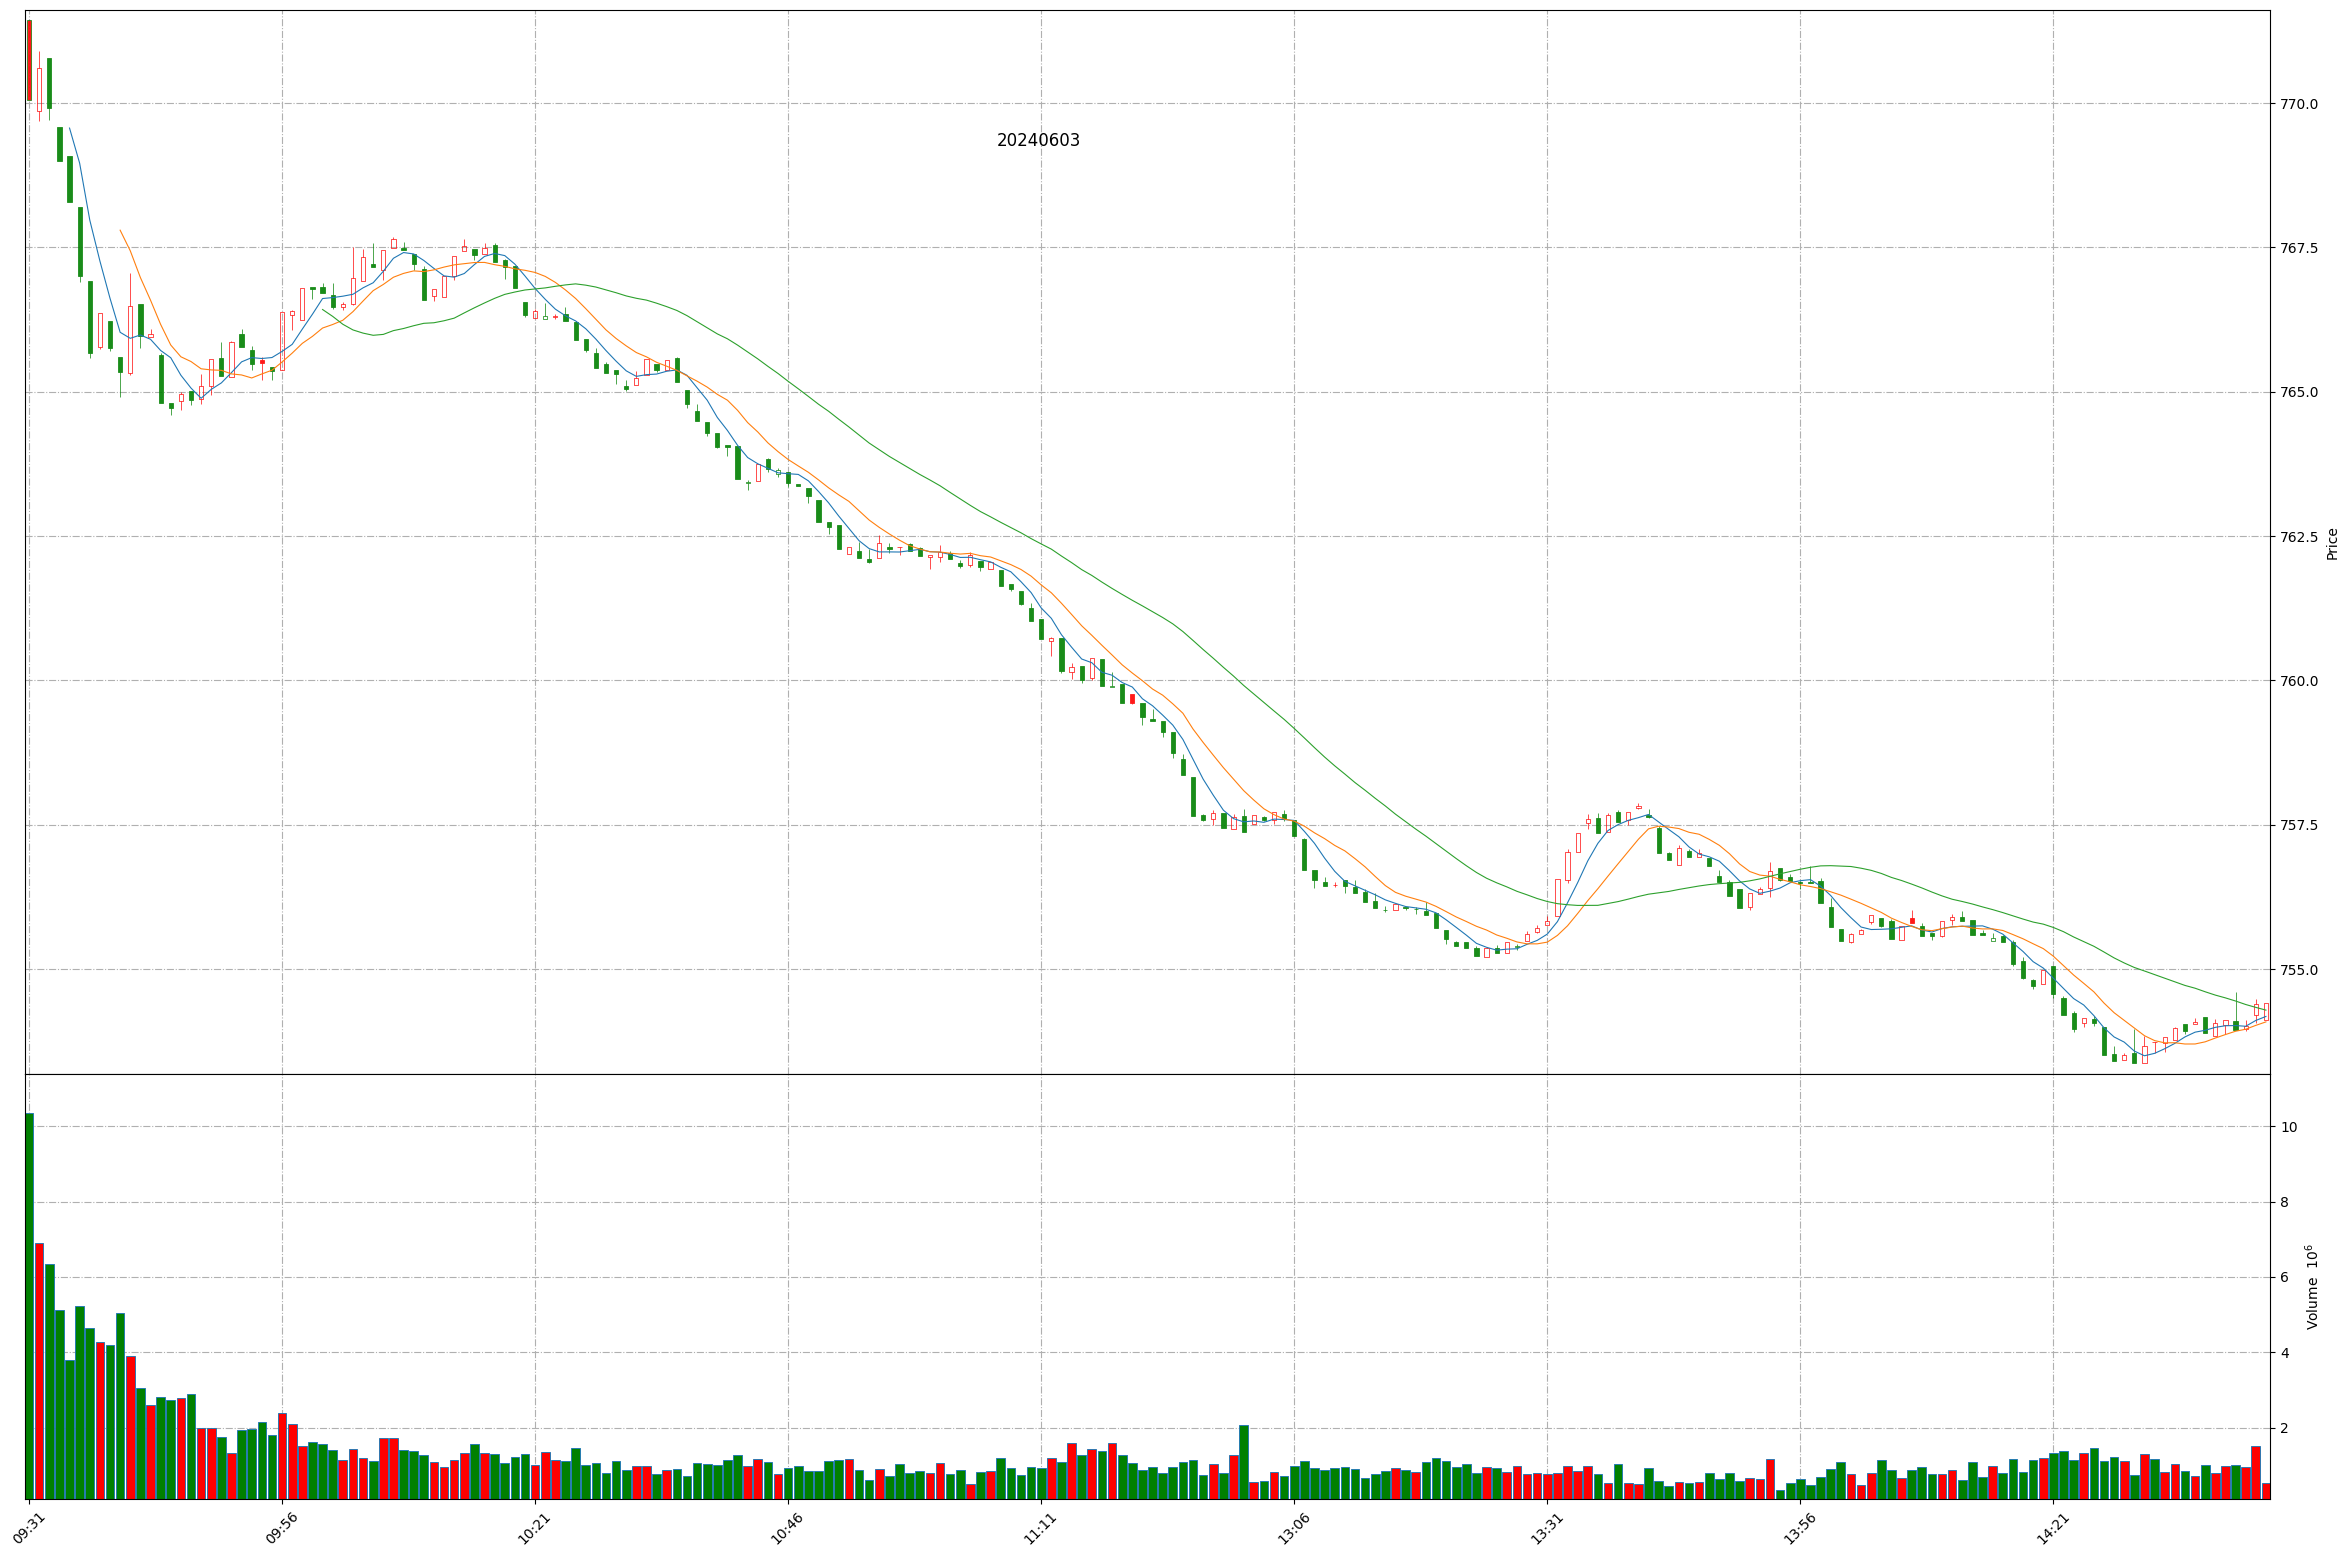
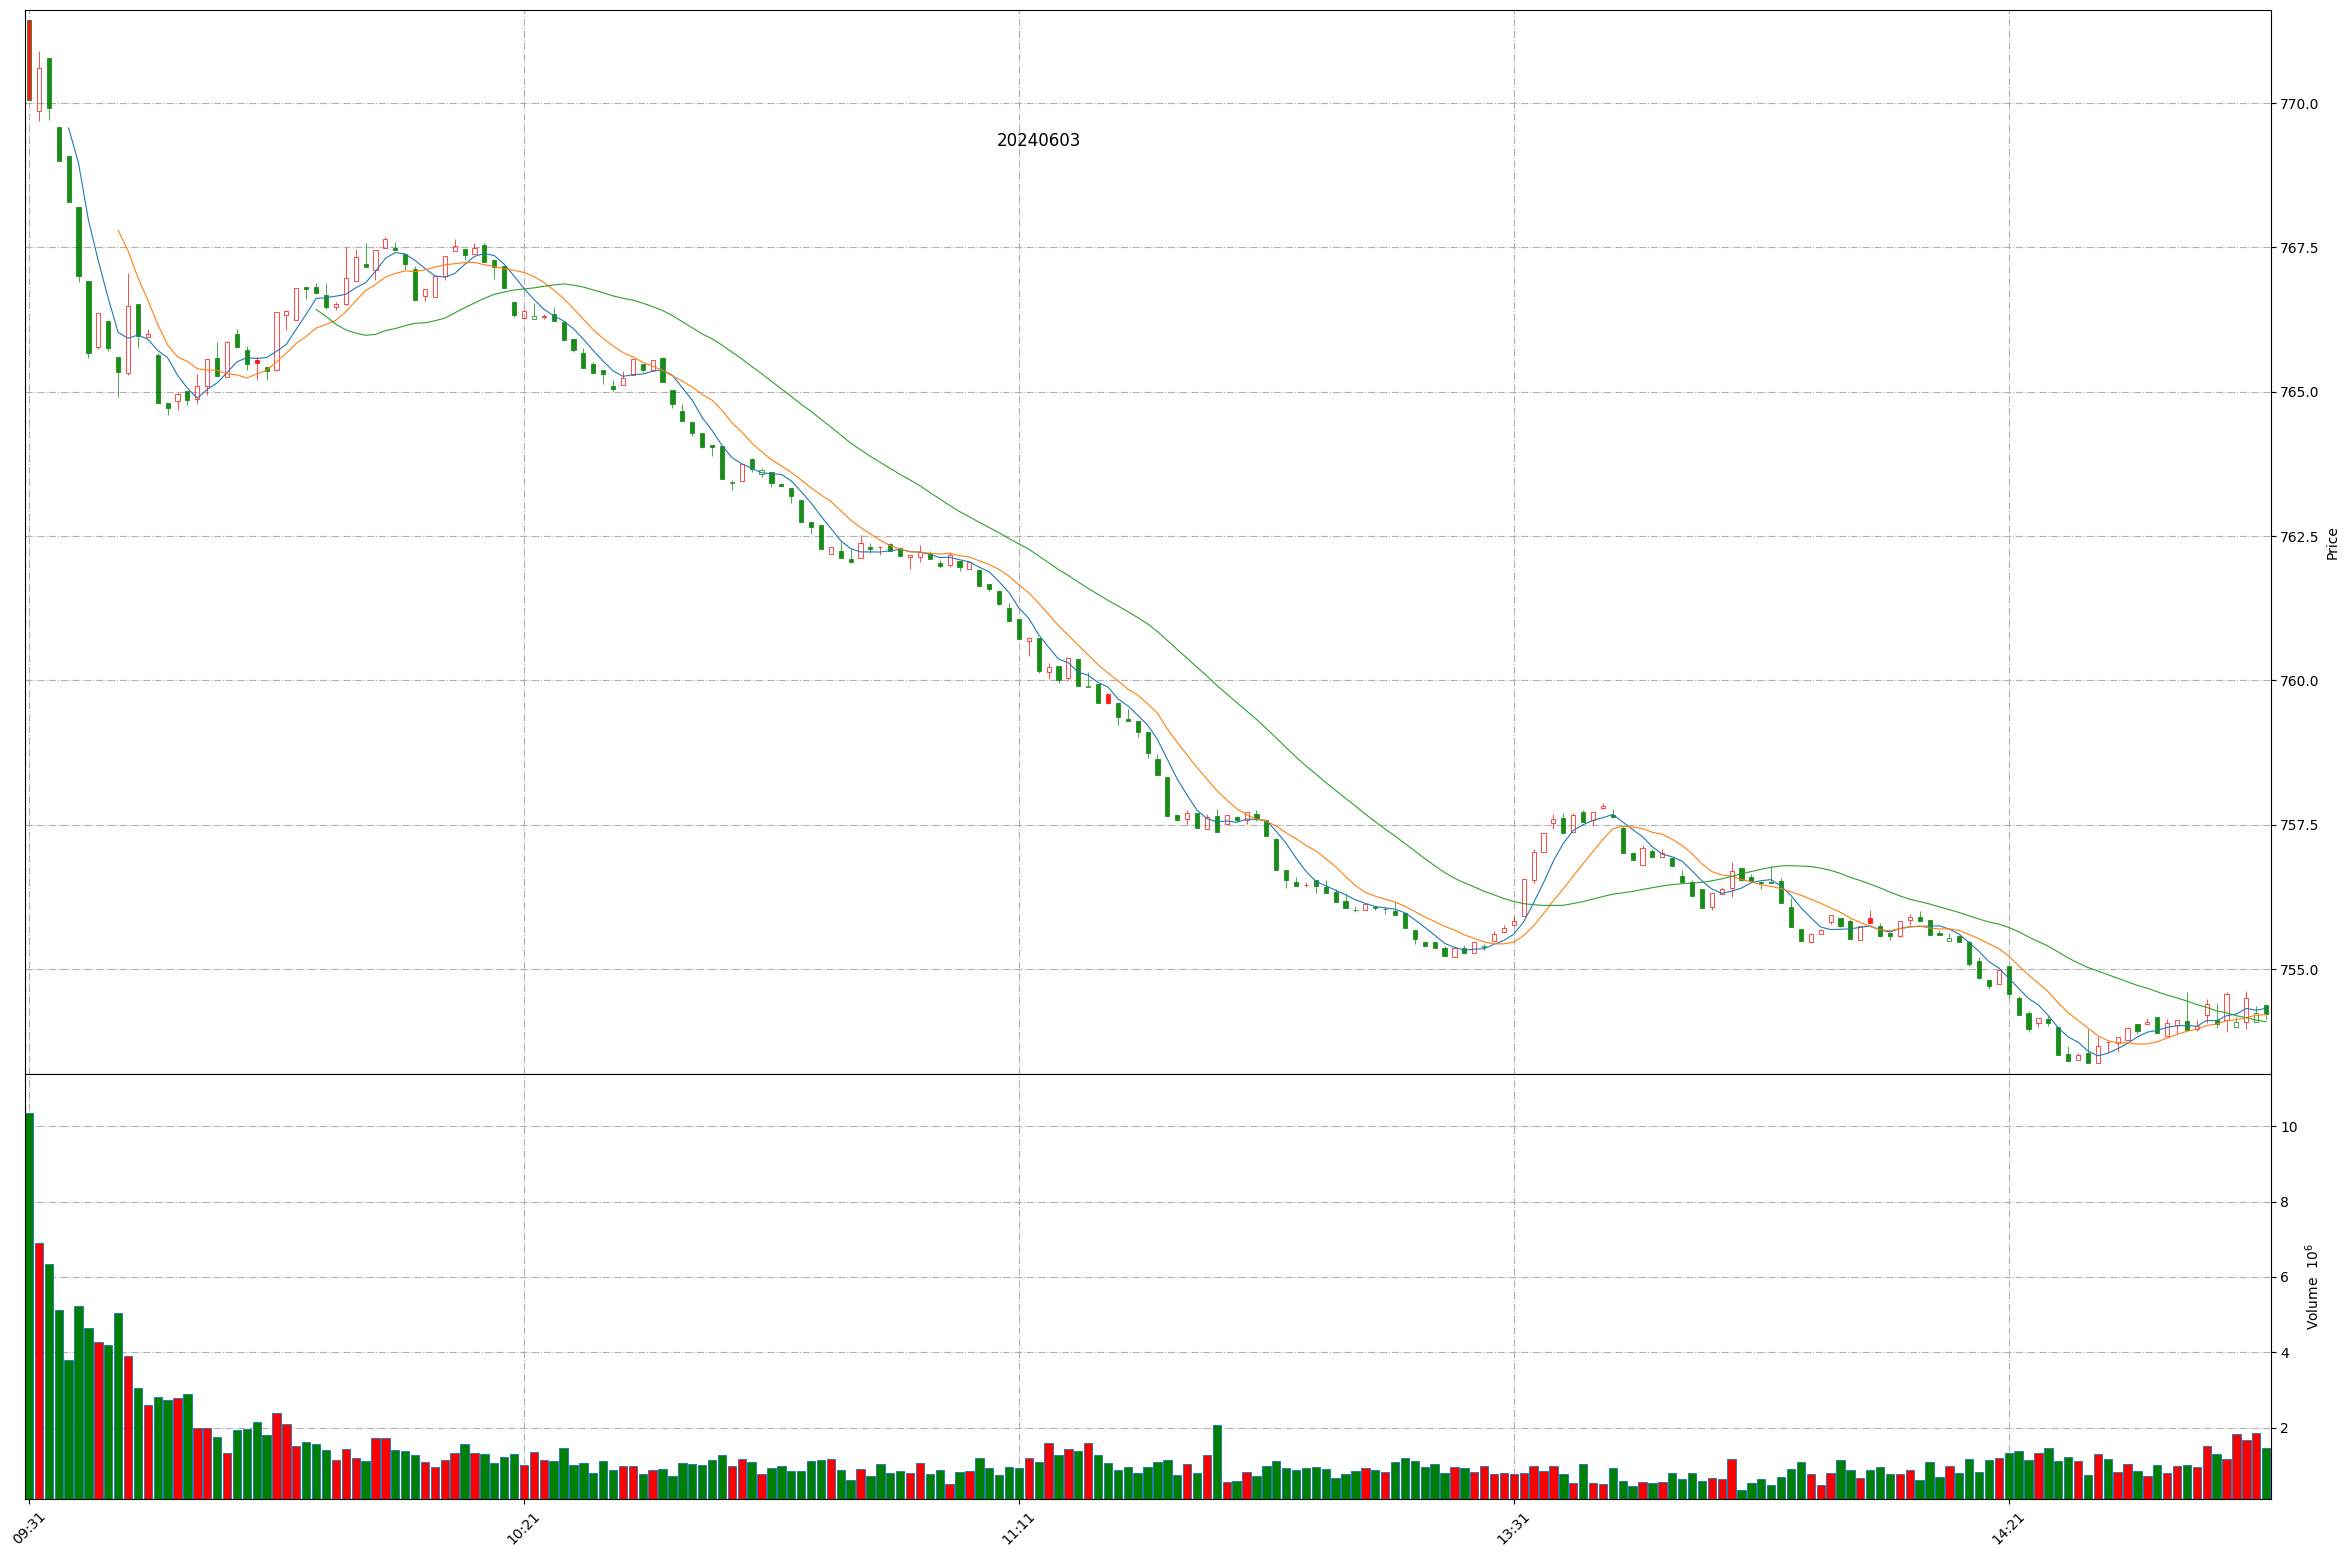
Github action update at 2024-06-03 14:47:06.

diff --git a/README.md b/README.md
@@ -1,11 +1,11 @@
 
 # Daily-A-share-market-quotes 每日 A 股指数（5min 更新）- 20240603
 
-### 上证指数 20240603 14:41
+### 上证指数 20240603 14:47
 ![](./fig/2024/6/20240603-sh000001.png)
 
-### 深证成指 20240603 14:41
+### 深证成指 20240603 14:47
 ![](./fig/2024/6/20240603-sz399001.png)
 
-### 北证50 20240603 14:41
+### 北证50 20240603 14:47
 ![](./fig/2024/6/20240603-bj899050.png)
